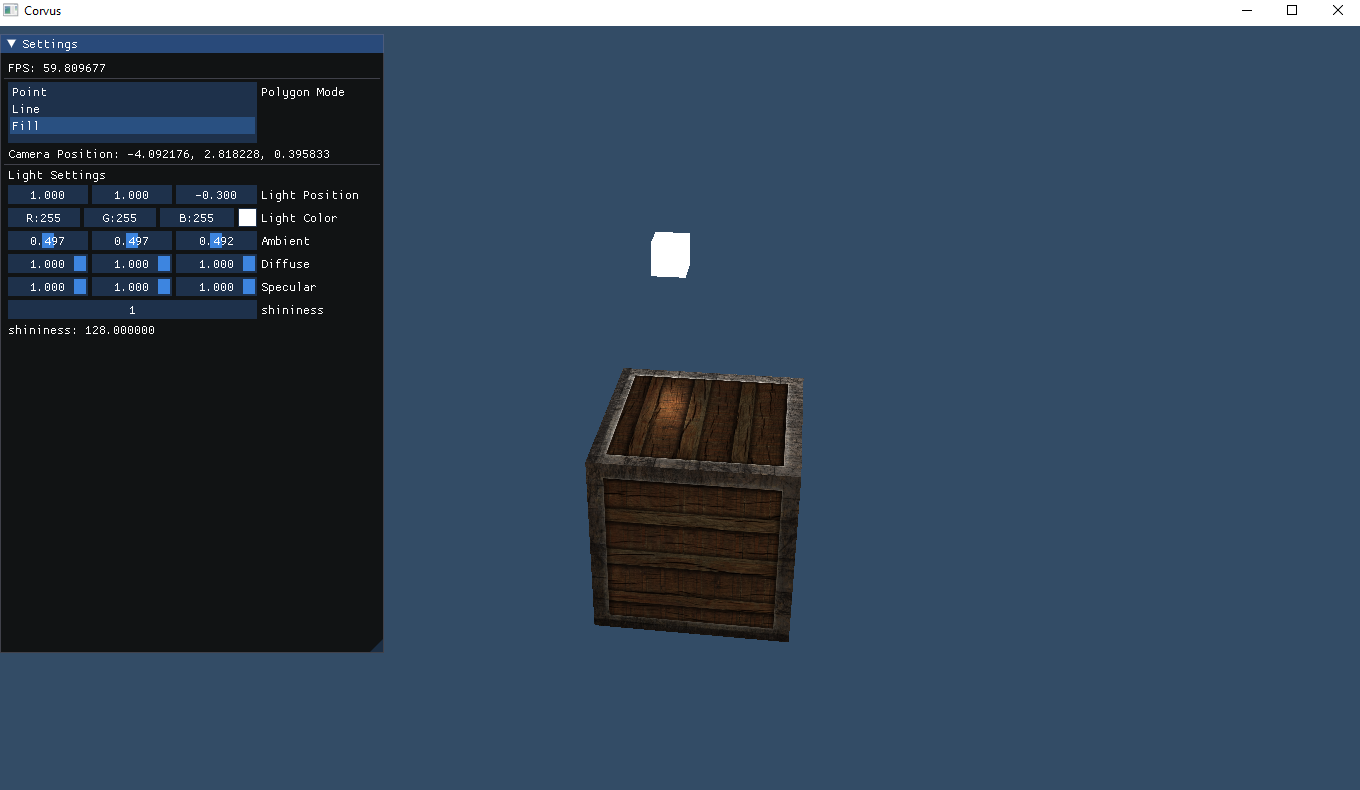
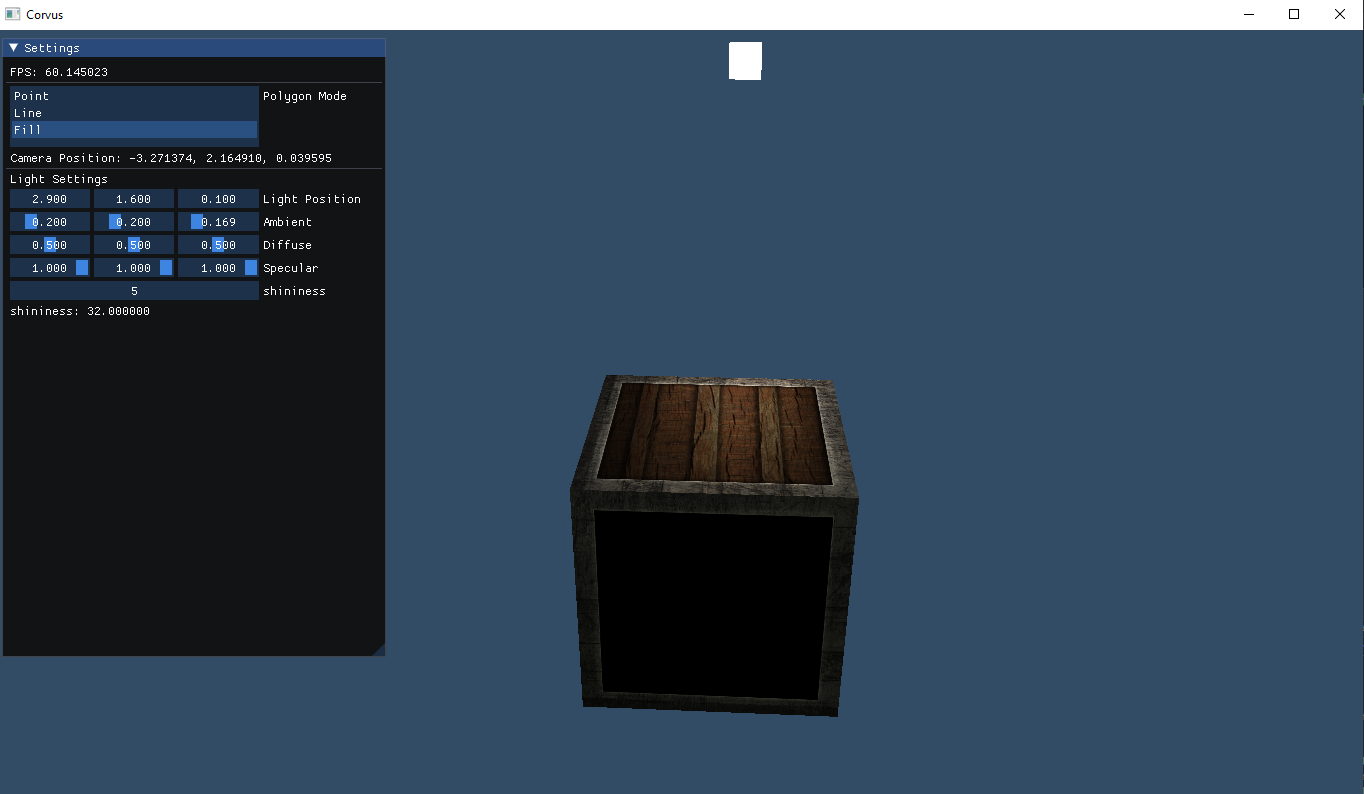
Clean Material

Changed region(s): [[0.0, 0.0, 1.0, 0.4253], [0.4015, 0.4557, 0.6485, 0.9114], [0.4632, 0.2734, 0.525, 0.3646]]

diff --git a/Corvus/test/Program.cpp b/Corvus/test/Program.cpp
@@ -1,4 +1,6 @@
 #include "Program.h"
+#include <random>
+
 float32 vertices[] ={
 	-0.5f, 0.5f,-0.5f,	  1.0f, 1.0f,	 0.0f, 0.0f,-1.0f, //0
 	 0.5f, 0.5f,-0.5f,	  0.0f, 1.0f,	 0.0f, 0.0f,-1.0f, //1
@@ -55,31 +57,16 @@ void Program::CreateCube()
 	gl::BindVertexArray(0);
 }
 
-void Program::CreateTexture()
+void Program::CreateTextures()
 {	
 	gl::TextureParameter params = 
 	{
 		gl::TEXTURE_FILTER_LINEAR, gl::TEXTURE_FILTER_LINEAR,
 		gl::TEXTURE_WRAP_CLAMP_TO_EDGE, gl::TEXTURE_WRAP_CLAMP_TO_EDGE, gl::TEXTURE_WRAP_CLAMP_TO_EDGE
 	};
-	material.diffuse = gl::CreateTexture2D("resources/textures/container.png", params);
-	material.diffuseLoc = gl::GetUniformLocation(cube.program, "material.diffuse");
-
-	material.specular = gl::CreateTexture2D("resources/textures/container_specular.png", params);
-	material.specularLoc = gl::GetUniformLocation(cube.program, "material.specular");
-
-	material.shininesLoc = gl::GetUniformLocation(cube.program, "material.shininess");
+	phongMaterial.diffuseTexture = gl::CreateTexture2D("resources/textures/container.png", params);
+	phongMaterial.specularTexture = gl::CreateTexture2D("resources/textures/container_specular.png", params);
 }
-void Program::LoadLight()
-{
-	light.ambientLoc = gl::GetUniformLocation(cube.program, "light.ambient");
-	light.diffuseLoc = gl::GetUniformLocation(cube.program, "light.diffuse");
-	light.specularLoc = gl::GetUniformLocation(cube.program, "light.specular");
-
-	light.positionLoc = gl::GetUniformLocation(cube.program, "light.position");
-	light.colorLoc = gl::GetUniformLocation(cube.program, "light.color");
-}
-
 Program::Program()
 {
 	gl::Init(1366, 768, "Corvus");
@@ -92,18 +79,15 @@ Program::Program()
 	gl::Enable(gl::TEST_DEPTH);
 	gl::Enable(gl::TEST_CULL_FACE);
 	gl::CullFace(gl::FACE_BACK);
-
 }
 
 Program::~Program()
 {
-	gl::DeleteProgram(light.program);
+	phongMaterial.Delete();
+	phongShader.Delete();
 	gl::DeleteVertexArray(vao);
 	gl::DeleteBuffer(vbo);
 	gl::DeleteBuffer(ebo);
-	gl::DeleteProgram(cube.program);
-	gl::DeleteTexture(material.diffuse);
-	gl::DeleteTexture(material.specular);
 	gl::Destroy();
 }
 
@@ -111,16 +95,24 @@ void Program::Init()
 {
 	gl::ClearColor(0.2f, 0.3f, 0.4f, 1.0f);
 	camera.Perspective(glm::radians(45.0f), 1.77f, 0.1f, 1000.0f);
-	cube.Create();
-	light.Create();
+	phongShader.Create();
 	CreateCube();
-	CreateTexture();
-	LoadLight();
+	CreateTextures();
+
+	uint32 vs = gl::CreateShader("resources/shaders/LightShader.vert", gl::SHADER_TYPE_VERTEX);
+	uint32 fs = gl::CreateShader("resources/shaders/LightShader.frag", gl::SHADER_TYPE_FRAGMENT);
+	lightProgram = gl::CreateProgram(vs, fs, true);
+	lightProjViewLoc = gl::GetUniformLocation(lightProgram, "projView");
+	lightTransformLoc = gl::GetUniformLocation(lightProgram, "transform");
+	lightColorLoc = gl::GetUniformLocation(lightProgram, "color");
 }
 
 void Program::Run()
 {
 	ImGuiIO& io = ImGui::GetIO();
+
+	CalculateTransform(cubeTransform, glm::vec3(0.0f, 0.0f, 0.0f), glm::vec3(0.0f, 0.0f, 1.0f), 0.0f, glm::vec3(1.0f, 1.0f, 1.0f));
+	CalculateTransform(lightTransform, phongLight.position, glm::vec3(0.0f, 0.0f, 1.0f), 0.0f, glm::vec3(0.2f, 0.2f, 0.2f));
 
 	while (gl::PollEvents())
 	{
@@ -134,24 +126,21 @@ void Program::Run()
 			camera.ProcessInput();
 		
 		gl::Clear(gl::CLEAR_BIT_COLOR_DEPTH);
-		gl::BindProgram(cube.program);
-		
-		light.SetUniformVariables();
-		cube.SetUniformVariables(camera.ProjView(), camera.GetPosition());
-		material.SetUnfiromVariables();
 
 		gl::BindVertexArray(vao);
 		gl::EnableVertexAttrib(vao, 1);
 		gl::EnableVertexAttrib(vao, 2);
 
+		phongShader.Bind(phongLight, phongMaterial, camera.ProjView(), camera.GetPosition());
+		phongShader.BindTransform(cubeTransform);
 		gl::DrawIndexed(gl::DRAW_MODE_TRIANGLES, _countof(indices), gl::DATA_TYPE_UNSIGNED_INT, 0);
-		
 		//for light
-		gl::BindProgram(light.program);
+		gl::BindProgram(lightProgram);
 		gl::DisableVertexAttrib(vao, 1);//disable uv and normal for light shader
 		gl::DisableVertexAttrib(vao, 2);
-		light.SetUniformForVisualizationVariables(camera.ProjView());
-		gl::DrawIndexed(gl::DRAW_MODE_TRIANGLES, _countof(indices), gl::DATA_TYPE_UNSIGNED_INT, 0);		
+		gl::SetUniformMat4(lightProjViewLoc, camera.ProjView(), false);
+		gl::SetUniformMat4(lightTransformLoc, lightTransform, false);
+		gl::DrawIndexed(gl::DRAW_MODE_TRIANGLES, _countof(indices), gl::DATA_TYPE_UNSIGNED_INT, 0);
 		//ui
 		gl::UIBegin();
 		ImGui::Begin("Settings");
@@ -165,19 +154,18 @@ void Program::Run()
 		//light factors
 		ImGui::Separator();
 		ImGui::Text("Light Settings");
-		if (ImGui::DragFloat3("Light Position", glm::value_ptr(light.position), 0.1f, -100.0f, 100.0f))
+		if (ImGui::DragFloat3("Light Position", glm::value_ptr(phongLight.position), 0.1f, -100.0f, 100.0f))
 		{
-			CalculateTransform(light.transform, light.position, glm::vec3(0.0f, 0.0f, 1.0f), 0.0f, glm::vec3(0.2f, 0.2f, 0.2f));
+			CalculateTransform(lightTransform, phongLight.position, glm::vec3(0.0f, 0.0f, 1.0f), 0.0f, glm::vec3(0.2f, 0.2f, 0.2f));
 		}
-		ImGui::ColorEdit3("Light Color", glm::value_ptr(light.color));
-		ImGui::SliderFloat3("Ambient", glm::value_ptr(light.ambient), 0.0f, 1.0f);
-		ImGui::SliderFloat3("Diffuse", glm::value_ptr(light.diffuse), 0.0f, 1.0f);
-		ImGui::SliderFloat3("Specular", glm::value_ptr(light.specular), 0.0f, 1.0f);
+		ImGui::SliderFloat3("Ambient", glm::value_ptr(phongLight.ambient), 0.0f, 1.0f);
+		ImGui::SliderFloat3("Diffuse", glm::value_ptr(phongLight.diffuse), 0.0f, 1.0f);
+		ImGui::SliderFloat3("Specular", glm::value_ptr(phongLight.specular), 0.0f, 1.0f);
 		if (ImGui::DragInt("shininess", &shininespow, 1, 1, 8))
 		{
-			material.shininess = (float32)pow(2, shininespow);
+			phongMaterial.shininess = (float32)pow(2, shininespow);
 		}
-		ImGui::Text("shininess: %f", material.shininess);
+		ImGui::Text("shininess: %f", phongMaterial.shininess);
 		ImGui::End();
 		gl::UIEnd();
 		gl::SwapBuffers();

diff --git a/Corvus/test/Program.h b/Corvus/test/Program.h
@@ -1,7 +1,7 @@
 #pragma once
 #include "../graphics/Graphics.h"
 #include "Camera.h"
-
+#include "PhongShader.h"
 using namespace Corvus;
 
 class Program
@@ -22,94 +22,18 @@ private :
 
 private :
 	void CreateCube();
-	void CreateTexture();
-	void LoadLight();
-	struct Cube
-	{
-		uint32 program = 0;
-		glm::mat4 transform = glm::mat4(1.0f);
-		uint32 projViewLoc = 0, transformLoc = 0;
-		uint32 cameraPosLoc = 0;
-
-		inline void Create()
-		{
-			uint32 vs = gl::CreateShader("resources/shaders/BasicShader.vert", gl::SHADER_TYPE_VERTEX);
-			uint32 fs = gl::CreateShader("resources/shaders/BasicShader.frag", gl::SHADER_TYPE_FRAGMENT);
-			program = gl::CreateProgram(vs, fs, true);
-			projViewLoc = gl::GetUniformLocation(program, "projView");
-			transformLoc = gl::GetUniformLocation(program, "transform");
-			cameraPosLoc = gl::GetUniformLocation(program, "cameraPos");
-			CalculateTransform(transform, glm::vec3(0.0f, 0.0f, 0.0f), glm::vec3(0.0f, 0.0f, 1.0f), 0.0f, glm::vec3(1.0f, 1.0f, 1.0f));
-		}
-		inline void SetUniformVariables(const glm::mat4& projView, const glm::vec3& cameraPos)
-		{
-			gl::SetUniformMat4(projViewLoc, projView, false);
-			gl::SetUniformMat4(transformLoc, transform, false);
-			gl::SetUniformVec3(cameraPosLoc, cameraPos);
-		}
-	};
-	Cube cube;
-	struct Light
-	{
-		glm::vec3 position = glm::vec3(1.0f, 1.0f, 0.0f);
-		glm::vec3 color = glm::vec3(1.0f, 1.0f, 1.0f);
-
-		glm::vec3 ambient = glm::vec3(0.2f, 0.2f, 0.2f);
-		glm::vec3 diffuse = glm::vec3(0.4f, 0.4f, 0.4f);
-		glm::vec3 specular = glm::vec3(0.5f, 0.5f, 0.5f);
-		//for cube program
-		uint32 ambientLoc = 0, diffuseLoc = 0, specularLoc = 0;
-		uint32 positionLoc = 0, colorLoc = 0;
-		
-		//for visualization
-		glm::mat4 transform = glm::mat4(1.0f);
-		uint32 program = 0;
-		uint32 projViewLoc = 0, transformLoc = 0;
-		uint32 colorVisLoc = 0;		
-
-		inline void Create()
-		{
-			uint32 lightVS = gl::CreateShader("resources/shaders/LightShader.vert", gl::SHADER_TYPE_VERTEX);
-			uint32 lightFS = gl::CreateShader("resources/shaders/LightShader.frag", gl::SHADER_TYPE_FRAGMENT);
-			program = gl::CreateProgram(lightVS, lightFS, true);
-			projViewLoc = gl::GetUniformLocation(program, "projView");
-			transformLoc = gl::GetUniformLocation(program, "transform");
-			colorVisLoc = gl::GetUniformLocation(program, "color");
-			CalculateTransform(transform, position, glm::vec3(0.0f, 0.0f, 1.0f), 0.0f, glm::vec3(0.2f, 0.2f, 0.2f));
-		}
-
-		inline void SetUniformVariables()
-		{
-			gl::SetUniformVec3(ambientLoc, ambient);
-			gl::SetUniformVec3(diffuseLoc, diffuse);
-			gl::SetUniformVec3(specularLoc, specular);
-			gl::SetUniformVec3(positionLoc, position);
-			gl::SetUniformVec3(colorLoc, color);
-
-		}
-		inline void SetUniformForVisualizationVariables(const glm::mat4& projView)
-		{
-			gl::SetUniformMat4(projViewLoc, projView, false);
-			gl::SetUniformMat4(transformLoc, transform, false);
-			gl::SetUniformVec3(colorVisLoc, color);
-		}
-	};
-	Light light;
-	struct Material
-	{
-		uint32 diffuse = 0;
-		uint32 specular = 0;
-		float32 shininess = 0;
-		uint32 diffuseLoc = 0, specularLoc = 0, shininesLoc = 0;
-
-		void SetUnfiromVariables()
-		{
-			gl::BindTexture2D(diffuse, 0, diffuseLoc);
-			gl::BindTexture2D(specular, 1, specularLoc);
-			gl::SetUniformFloat(shininesLoc, shininess);
-		}
-	};
+	void CreateTextures();
+	PhongLight phongLight = {};
+	PhongMaterial phongMaterial = {};
+	PhongShader phongShader = {};
 	int32 shininespow = 1;
-	Material material;
+	
+	glm::mat4 cubeTransform = glm::mat4(1.0f);
+
+	uint32 lightProgram = 0;
+	uint32 lightTransformLoc = 0;
+	uint32 lightColorLoc = 0;
+	uint32 lightProjViewLoc = 0;
+	glm::mat4 lightTransform = glm::mat4(1.0f);
 };
 

diff --git a/Corvus/test/PhongShader.cpp b/Corvus/test/PhongShader.cpp
@@ -1,0 +1,46 @@
+#include "PhongShader.h"
+
+void PhongShader::Create()
+{
+	uint32 vs = gl::CreateShader("resources/shaders/PhongShader.vert", gl::SHADER_TYPE_VERTEX);
+	uint32 fs = gl::CreateShader("resources/shaders/PhongShader.frag", gl::SHADER_TYPE_FRAGMENT);
+	program = gl::CreateProgram(vs, fs, true);
+
+	projViewLoc = gl::GetUniformLocation(program, "projView");
+	transformLoc = gl::GetUniformLocation(program, "transform");
+	cameraPosLoc = gl::GetUniformLocation(program, "cameraPos");
+
+	materialDiffuseLoc = gl::GetUniformLocation(program, "material.diffuse");
+	materialSpecularLoc = gl::GetUniformLocation(program, "material.specular");
+	materialShininessLoc = gl::GetUniformLocation(program, "material.shininess");
+
+	lightPosLoc = gl::GetUniformLocation(program, "light.position");
+	lightAmbientLoc = gl::GetUniformLocation(program, "light.ambient");
+	lightDiffuseLoc = gl::GetUniformLocation(program, "light.diffuse");
+	lightSpecularLoc = gl::GetUniformLocation(program, "light.specular");
+}
+
+void PhongShader::Bind(const PhongLight& light, const PhongMaterial& material, const glm::mat4& projView, const glm::vec3& cameraPos)
+{
+	gl::BindProgram(program);
+	gl::SetUniformMat4(projViewLoc, projView, false);
+	gl::SetUniformVec3(cameraPosLoc, cameraPos);
+
+	gl::BindTexture2D(material.diffuseTexture, 0, materialDiffuseLoc);
+	gl::BindTexture2D(material.specularTexture, 1, materialSpecularLoc);
+	gl::SetUniformFloat(materialShininessLoc, material.shininess);
+
+	gl::SetUniformVec3(lightPosLoc, light.position);
+	gl::SetUniformVec3(lightAmbientLoc, light.ambient);
+	gl::SetUniformVec3(lightDiffuseLoc, light.diffuse);
+	gl::SetUniformVec3(lightSpecularLoc, light.specular);
+}
+void PhongShader::BindTransform(const glm::mat4& transform)
+{
+	gl::SetUniformMat4(transformLoc, transform, false);
+}
+
+void PhongShader::Delete()
+{
+	gl::DeleteProgram(program);
+}

diff --git a/Corvus/test/PhongShader.h b/Corvus/test/PhongShader.h
@@ -1,0 +1,38 @@
+#pragma once
+#include "../graphics/Graphics.h"
+using namespace Corvus;
+
+struct PhongLight
+{
+	glm::vec3 position = glm::vec3(1.0f, 1.0f, 0.0f);
+
+	glm::vec3 ambient = glm::vec3(0.2f, 0.2f, 0.2f);
+	glm::vec3 diffuse = glm::vec3(0.5f, 0.5f, 0.5f);
+	glm::vec3 specular = glm::vec3(1.0f, 1.0f, 1.0f);
+};
+struct PhongMaterial
+{
+	uint32 diffuseTexture = 0;
+	uint32 specularTexture = 0;
+	float32 shininess = 64.0f;
+
+	inline void Delete()
+	{
+		gl::DeleteTexture(diffuseTexture);
+		gl::DeleteTexture(specularTexture);
+	}
+};
+class PhongShader
+{
+private :
+	uint32 program = 0;
+	uint32 transformLoc = 0, projViewLoc = 0;
+	uint32 cameraPosLoc = 0;
+	uint32 lightPosLoc = 0, lightAmbientLoc = 0, lightDiffuseLoc = 0, lightSpecularLoc = 0;
+	uint32 materialDiffuseLoc = 0, materialSpecularLoc = 0, materialShininessLoc = 0;
+public :
+	void Create();
+	void Bind(const PhongLight& light, const PhongMaterial& material, const glm::mat4& projView, const glm::vec3& cameraPos);
+	void BindTransform(const glm::mat4& transform);
+	void Delete();
+};

diff --git a/Corvus/graphics/Graphics.cpp b/Corvus/graphics/Graphics.cpp
@@ -407,6 +407,7 @@ namespace Corvus::gl
 		glTexImage2D(target, 0, TEXTURE_FORMAT_RGBA, width, height, 0, TEXTURE_FORMAT_RGBA, DATA_TYPE_UNSIGNED_BYTE, data);
 		glGenerateMipmap(target);
 		stbi_image_free(data);
+		glBindTexture(target, 0);
 		return id;
 	}
 	uint32 CreateTexture2D(cstring path, TextureParameter params)
@@ -428,7 +429,7 @@ namespace Corvus::gl
 	}
 	void BindTexture2D(const uint32& id, const uint32& active, const uint32& location)
 	{
-		BindTexture(TEXTURE_TYPE_2D, id);
+		BindTexture(TEXTURE_TYPE_2D, id);		
 		ActivateTexture(active);
 		SetUniformInt(location, active);
 	}
